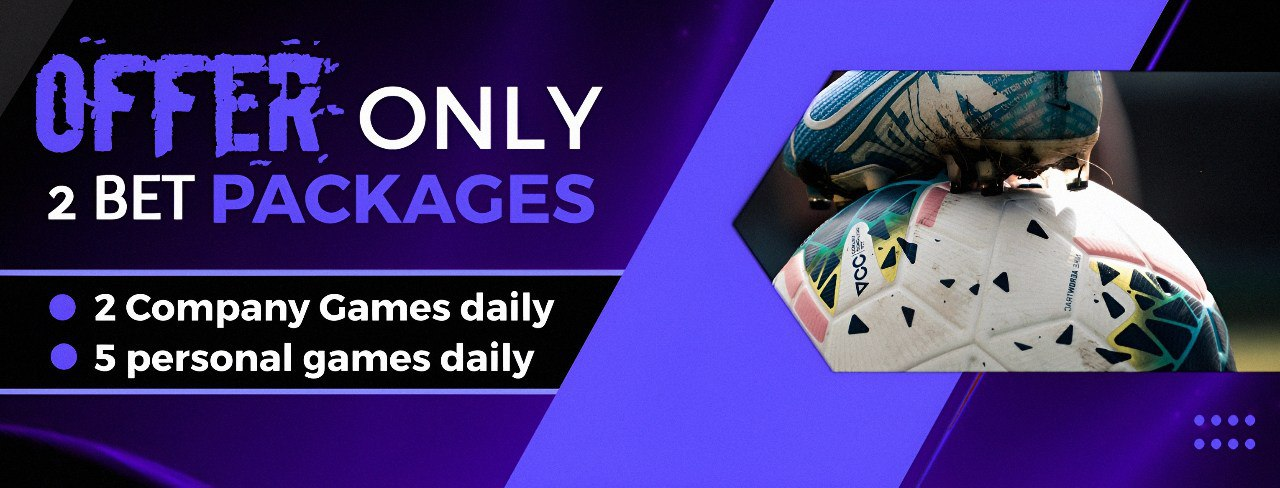
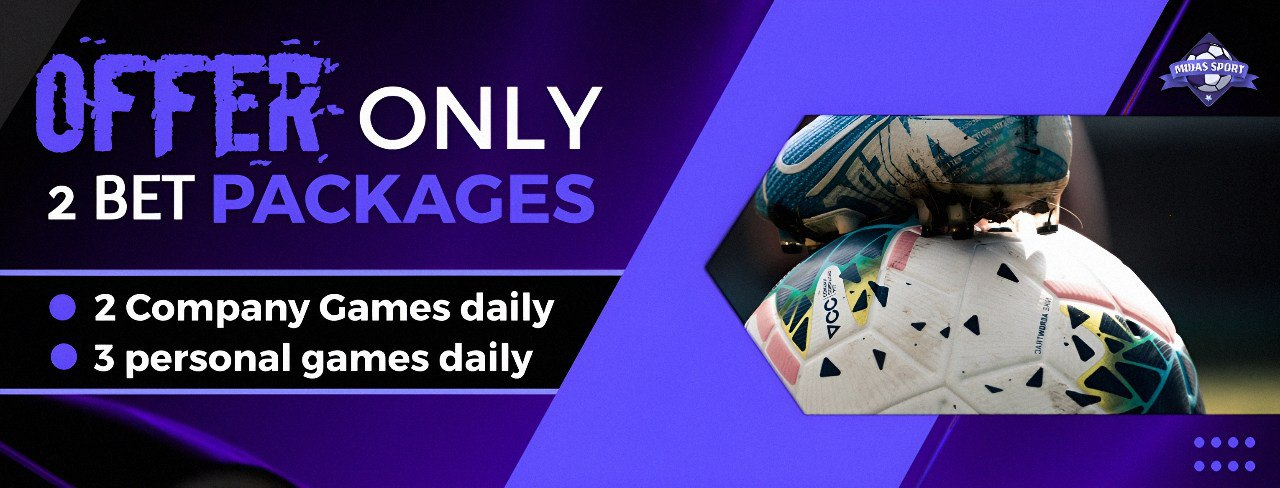
all

diff --git a/src/app/betslip/betslip.component.html b/src/app/betslip/betslip.component.html
@@ -90,18 +90,51 @@
                   <ul class="bet-result">
                       <li>⚽Score: <span>{{selectedScore.value}}</span></li>
                       <li>♻Profit: <span>{{selectedScore.odds}}</span></li>
-                      <li>💹Total Return: <span class="total-return">{{walletData['base']['symbol']}}<span>{{totalProfit|number}}</span></span></li>
+                      <li>💹Total Return: <span translate="no" class="total-return">{{walletData['base']['symbol']}}<span>{{totalProfit|number}}</span></span></li>
                   </ul>
                   <!-- <button><i class="ri-close-line"></i></button> -->
               </div>
                 <div class="amount-wrap">
                   <div class="title-wrap">
                       <h6>Amount To Play</h6>
-                      <span>{{walletData['base']['symbol']}}{{storeData.store['bet_settings']?.minimum}} - {{storeData.store['bet_settings']?.maximum|number}} </span>
+                      <span translate="no">{{walletData['base']['symbol']}}{{storeData.store['bet_settings']?.minimum}} - {{storeData.store['bet_settings']?.maximum|number}} </span>
                   </div>
-                  <div class="single-input-wrap">
-                      <input (keyup)="setBetAmount($event)" type="number" class="form-control" placeholder="{{walletData['base']['symbol']}} {{storeData.store['bet_settings']?.minimum}}">
+
+
+                  <div class="d-flex single-input-wrap">
+                    <input
+                      translate="no"
+                      (keyup)="setBetAmount($event)"
+                      type="digit"
+                      class="form-control"
+                      placeholder="{{walletData['base']['symbol']}} {{storeData.store['bet_settings']?.minimum}}"
+                      [(ngModel)]="stakeAmount">
+                     <button (click)="stakeAll()" class="btn btn-outline-primary me-2" >ALL</button>
+                    </div>
+
+
+
+                  <!-- <div class="single-input-wrap">
+                      <input
+                        translate="no"
+                        (keyup)="setBetAmount($event)"
+                        type="number"
+                        class="form-control"
+                        placeholder="{{walletData['base']['symbol']}} {{storeData.store['bet_settings']?.minimum}}"
+                        [(ngModel)]="stakeAmount">
+
+
                   </div>
+
+                  <div (click)="stakeAll()" class="stake-all mt-3">
+                    <button type="button" class="btn-c btn-outline-primary mr-1 mb-2">ALL</button>
+                  </div> -->
+
+                  <!-- <div class="input-wrap">
+                      <input type="text" class="form-control" placeholder="Amount">
+                      <button  type="button" class="btn-clipboard"><svg class="svg-inline--fa fa-clone fa-w-16" aria-hidden="true" focusable="false" data-prefix="far" data-icon="clone" role="img" xmlns="http://www.w3.org/2000/svg" viewBox="0 0 512 512" data-fa-i2svg=""><path fill="currentColor" d="M464 0H144c-26.51 0-48 21.49-48 48v48H48c-26.51 0-48 21.49-48 48v320c0 26.51 21.49 48 48 48h320c26.51 0 48-21.49 48-48v-48h48c26.51 0 48-21.49 48-48V48c0-26.51-21.49-48-48-48zM362 464H54a6 6 0 0 1-6-6V150a6 6 0 0 1 6-6h42v224c0 26.51 21.49 48 48 48h224v42a6 6 0 0 1-6 6zm96-96H150a6 6 0 0 1-6-6V54a6 6 0 0 1 6-6h308a6 6 0 0 1 6 6v308a6 6 0 0 1-6 6z"></path></svg><!-- <i class="far fa-clone"></i> Font Awesome fontawesome.com </button>
+                  </div> -->
+
                   <div class="mt-3">
                     <button appButtonLoader (click)="slipHandler('place_bet')" *ngIf="stakeAmount>=storeData.store['bet_settings']?.minimum" class="btn btn-base w-100" >Trade Now</button>
                   </div>

diff --git a/src/app/promotions/promotions.component.html b/src/app/promotions/promotions.component.html
@@ -34,7 +34,7 @@
           <div class="single-blog-card">
               <!-- <div class="card-img"><img src="assets/img/blog/1.png" alt="img"></div> -->
               <div class="card-details">
-                  <div class="date secure"> ♻ IINCOME </div>
+                  <div class="date secure"> ♻ INCOME </div>
                   <!-- <a class="card-title" href="blog-details.html">The Best MMA Bets of the Week</a> -->
                   <div class="blog-meta">
                     <h4><span class="amount">
@@ -88,10 +88,10 @@
                             <ul>
                                 <li><a >Total Users <span class="bg-btn">{{ref.total.generation_1}}</span></a></li>
                                 <li><a >Active  <span class="bg-btn">{{ref.active.generation_1}}</span></a></li>
-                                <li><a >Rebate Commisson <span class="text">${{ref.rebate.generation_1.amount|number:'1.1-1'}}</span></a></li>
-                                <li><a >Refferral Commisson <span class="text">${{ref.referral.generation_1.amount|number:'1.1-1'}}</span></a></li>
-                                <li><a >Deposited <span class="text">${{ref.deposit.generation_1.amount|number:'1.1-1'}}</span></a></li>
-                                <li><a >withdrawn <span class="text">${{ref.withdraw.generation_1.amount|number:'1.1-1'}}</span></a></li>
+                                <li><a >Rebate Commisson <span class="text">${{ref.rebate.generation_1.amount|number:(ref.rebate.generation_1.amount.amount < 0.01 ? '1.4-4' : '1.2-2')}}</span></a></li>
+                                <li><a >Refferral Commisson <span class="text">${{ref.referral.generation_1.amount|number:'1.2-2'}}</span></a></li>
+                                <li><a >Deposited <span class="text">${{ref.deposit.generation_1.amount|number:'1.2-2'}}</span></a></li>
+                                <li><a >withdrawn <span class="text">${{ref.withdraw.generation_1.amount|number:'1.2-2'}}</span></a></li>
                             </ul>
                             <span (click)="navigate('/promotions 1')" class="btn btn-outline-dark btn-sm text-primary">Show users <i class="fa fa-users"></i></span>
                         </div>

diff --git a/src/app/betslip/betslip.component.ts b/src/app/betslip/betslip.component.ts
@@ -12,6 +12,8 @@ import { SpinnerComponent } from '../reuseables/http-loader/spinner.component';
 import { ConfirmationDialogService } from '../reuseables/modals/confirmation-dialog/confirmation-dialog.service';
 import {  loadScript , copyContent} from '../reuseables/helper';
 
+import { ReactiveFormsModule, FormBuilder, Validators, FormsModule } from '@angular/forms';
+
 
 import {
   trigger,
@@ -27,7 +29,7 @@ type DivControlKey = 'showPredictionBoard';
 
 @Component({
   selector: 'app-betslip',
-  imports: [CommonModule,SpinnerComponent],
+  imports: [CommonModule,SpinnerComponent,FormsModule],
   templateUrl: './betslip.component.html',
   styleUrl: './betslip.component.css',
   animations: [
@@ -122,10 +124,19 @@ export class BetslipComponent {
 
   setBetAmount(event: KeyboardEvent) {
 
+    console.log({event});
+
     const inputValue = (event.target as HTMLInputElement).value;
     this.stakeAmount=inputValue
+    this.setProfit()
+
+  }
+
+  setProfit(){
     const totalProfit = (this.stakeAmount * this.selectedScore.odds / 100 ).toFixed(2)
+
     this.totalProfit  = parseFloat(this.stakeAmount) + parseFloat(totalProfit)
+    console.log({totalProfit:this.totalProfit});
   }
 
   slipHandler(processor:string){
@@ -154,5 +165,28 @@ export class BetslipComponent {
     }
   }
 
+  stakeClickCount = 0;
+  showEasterEgg = false;
+
+  stakeAll() {
+    // for example, set betAmount to wallet balance
+    console.log({"this.stakeAmount":this.stakeAmount});
+
+    this.stakeAmount = this.storeData.get('wallet')?.balance?.new || 0;
+
+    this.setProfit()
+
+
+    // count clicks
+  //   this.stakeClickCount++;
+  //
+  //   if (this.stakeClickCount >= 5) {
+  //     this.showEasterEgg = true;
+  //     setTimeout(() => {
+  //       this.showEasterEgg = false;
+  //       this.stakeClickCount = 0;
+  //     }, 3000); // hide after 3s
+  //   }
+  }
 
 }

diff --git a/src/app/reuseables/toast/toast.component.ts b/src/app/reuseables/toast/toast.component.ts
@@ -1,10 +1,12 @@
 import { Component, Inject } from '@angular/core';
 import { CommonModule } from '@angular/common';
 
-import { MAT_SNACK_BAR_DATA } from '@angular/material/snack-bar';
+// import { MAT_SNACK_BAR_DATA } from '@angular/material/snack-bar';
 import { MatIconModule } from '@angular/material/icon';
 // import { MatButtonModule } from '@angular/material/button';
 // import { MatDialogModule } from '@angular/material/dialog';
+import { MAT_SNACK_BAR_DATA, MatSnackBarRef } from '@angular/material/snack-bar';
+
 
 @Component({
   selector: 'app-toast',
@@ -18,5 +20,14 @@ import { MatIconModule } from '@angular/material/icon';
   ],
 })
 export class ToastComponent {
-  constructor(@Inject(MAT_SNACK_BAR_DATA) public data: { message: any, status: any }) {}
+
+
+  constructor(
+    public snackBarRef: MatSnackBarRef<ToastComponent>,
+    @Inject(MAT_SNACK_BAR_DATA) public data: { message: any, status: any }
+  ) {}
+
+  closeToast() {
+    this.snackBarRef.dismiss();
+  }
 }

diff --git a/src/app/promotions/users/users.component.html b/src/app/promotions/users/users.component.html
@@ -50,7 +50,7 @@
                                 <tbody *ngIf="storeData.store['promotionLevel_'+diretory] as tables">
                                     <tr *ngFor="let table of tables">
                                         <th scope="row">{{table.referred_user}}</th>
-                                        <td class="text-success">${{table.amount|number:'1.2-2'}}</td>
+                                        <td class="text-success">${{table.amount|number:(table.amount < 0.01 ? '1.4-4' : '1.2-2')}}</td>
                                         <td>{{table.type}}</td>
                                         <td class="text-date">{{table.created_at|date:'mediumDate'}}</td>
                                     </tr>

diff --git a/src/index.html b/src/index.html
@@ -2,7 +2,7 @@
 <html lang="zxx">
 <head>
   <meta charset="utf-8">
-  <title>Turbo Sport</title>
+  <title>MIDAS Sport</title>
   <base href="/">
   <!-- <meta name="viewport" content="width=device-width, initial-scale=1"> -->
   <meta name="viewport" content="width=device-width, initial-scale=1, maximum-scale=1, user-scalable=no">
@@ -122,6 +122,12 @@
             justify-content: flex-end;
             padding: 10px;
             margin-left: auto;
+        }
+
+        .VIpgJd-yAWNEb-L7lbkb {
+            color: #222;
+            background-color: transparent !important;
+
         }
 
       /*  end of  gpoogle translator styling */

diff --git a/src/app/reuseables/toast/toast.component.css b/src/app/reuseables/toast/toast.component.css
@@ -31,3 +31,32 @@
   box-shadow: none !important;
   padding: 0 !important;
 }
+
+.close-btn {
+  background: transparent !important; /* no background */
+  width: 20px;
+  height: 20px;
+  padding: 0;
+  min-width: 20px;
+  line-height: 20px;
+}
+
+.close-btn mat-icon {
+  font-size: 16px;  /* make icon small */
+  height: 16px;
+  width: 16px;
+  color: #555; /* subtle color */
+}
+
+.close-btn:hover mat-icon {
+  color: #000; /* darker on hover */
+}
+
+.custom-toast .message {
+  flex: 1;
+  margin: 0 8px;
+}
+
+.close-btn {
+  margin-left: 8px;
+}

diff --git a/src/app/reuseables/toast/toast.component.html b/src/app/reuseables/toast/toast.component.html
@@ -1,4 +1,9 @@
 <div class="custom-toast" [ngClass]="data.status">
   <mat-icon class="icon">{{ data.status === 'success' ? 'check_circle' : 'error' }}</mat-icon>
   <span class="message">{{ data.message }}</span>
+
+  <!-- Close button -->
+  <button mat-icon-button class="close-btn" (click)="closeToast()" >
+    <mat-icon>close</mat-icon>
+  </button>
 </div>

diff --git a/src/app/wallet/transactions/transactions.component.html b/src/app/wallet/transactions/transactions.component.html
@@ -54,7 +54,7 @@
                   <!-- {{tx.inia}} -->
               </div>
               <div class="amount-details">
-                  <h6>${{tx.amount|number:"1.2-2"}}</h6>
+                  <h6>${{tx.amount|number:"1.4-4"}}</h6>
                   <span>{{tx.timestamp|date:'mediumDate'}}</span>
               </div>
           </li>

diff --git a/src/app/betslip/betslip.component.css b/src/app/betslip/betslip.component.css
@@ -3,3 +3,11 @@
   font-weight: 900;
   font-size: 20px;
 }
+
+.single-input-wrap .btn {
+    position: absolute;
+    right: 0px;
+    padding: 0;
+    margin: 0;
+    margin-top: 5px;
+}
